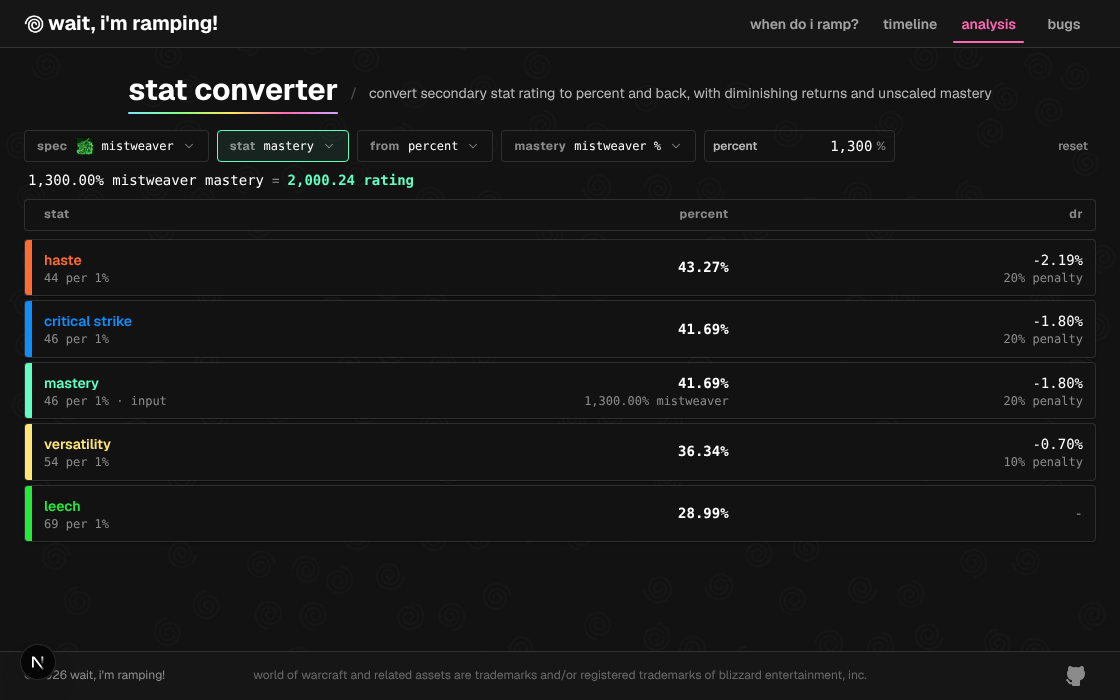
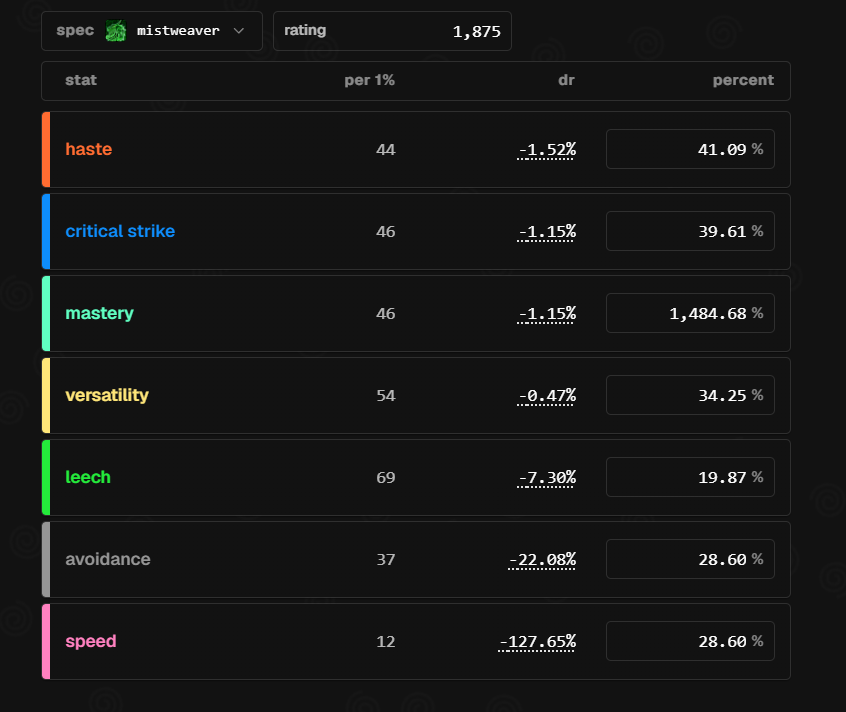
fix(analysis): shorten stat converter description and update preview

diff --git a/app/AnalysisPages.tsx b/app/AnalysisPages.tsx
@@ -215,7 +215,7 @@ export const statConverter = {
     label: "Stat Converter",
     path: "/analysis/stat-converter",
     preview: "/previews/stat-converter.png",
-    description: "Convert secondary stat rating to percent and back, with diminishing returns and unscaled mastery",
+    description: "Convert stat rating to percent and back, with diminishing returns",
     tags: [],
     createdDate: date(2026, 11, 4),
     component: StatConverter,
